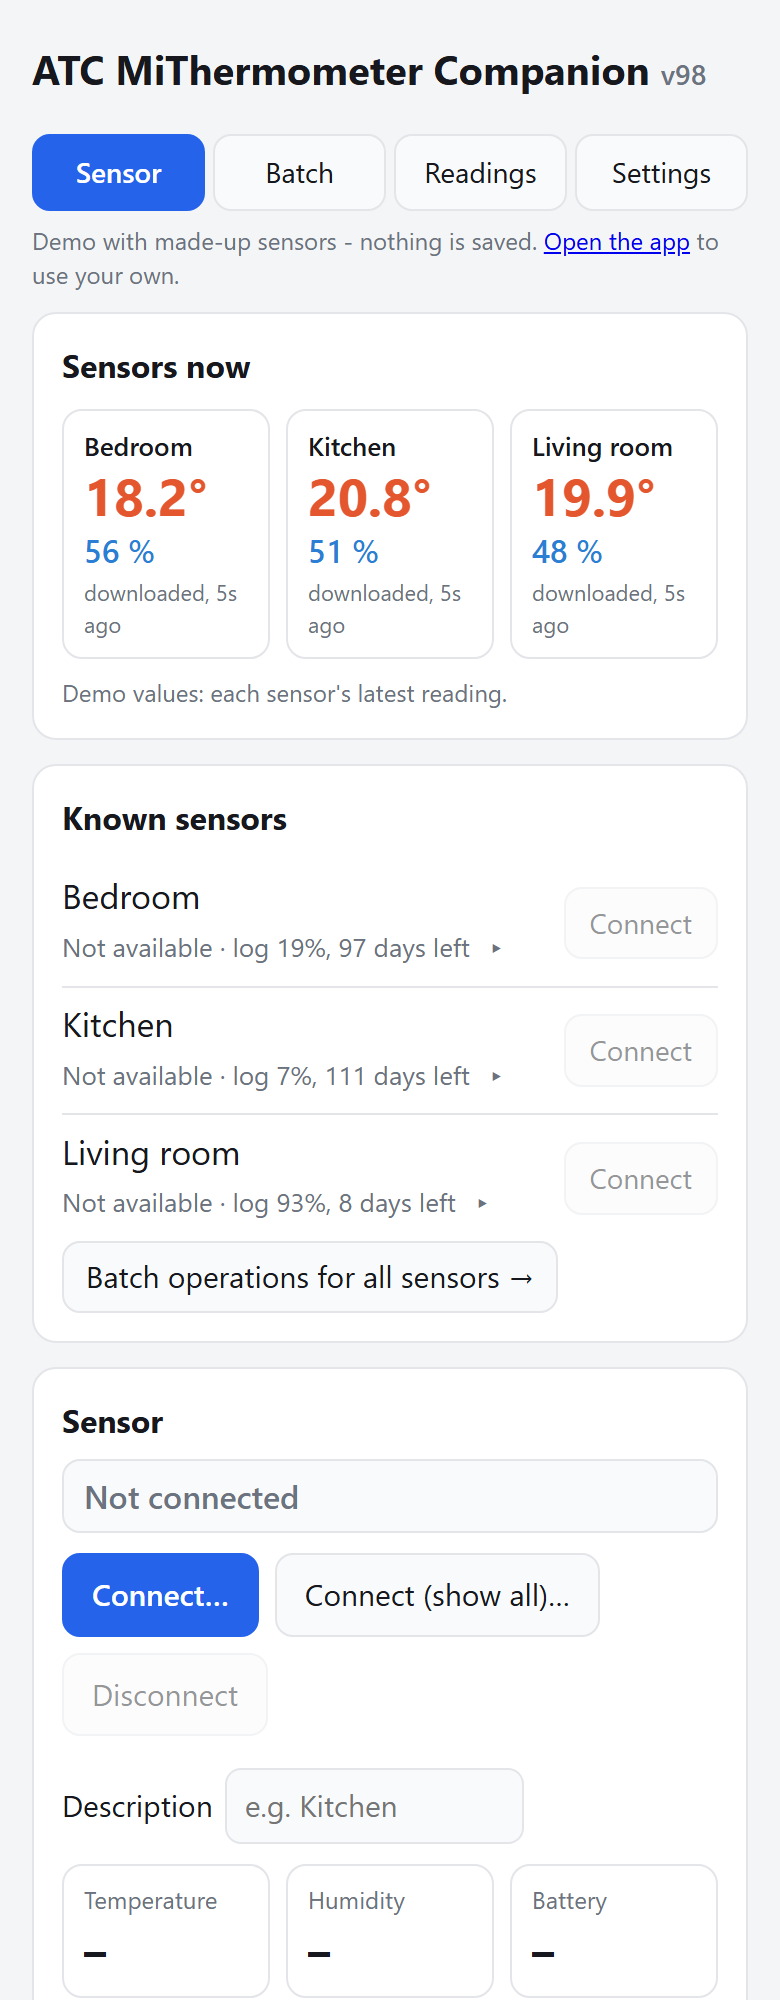
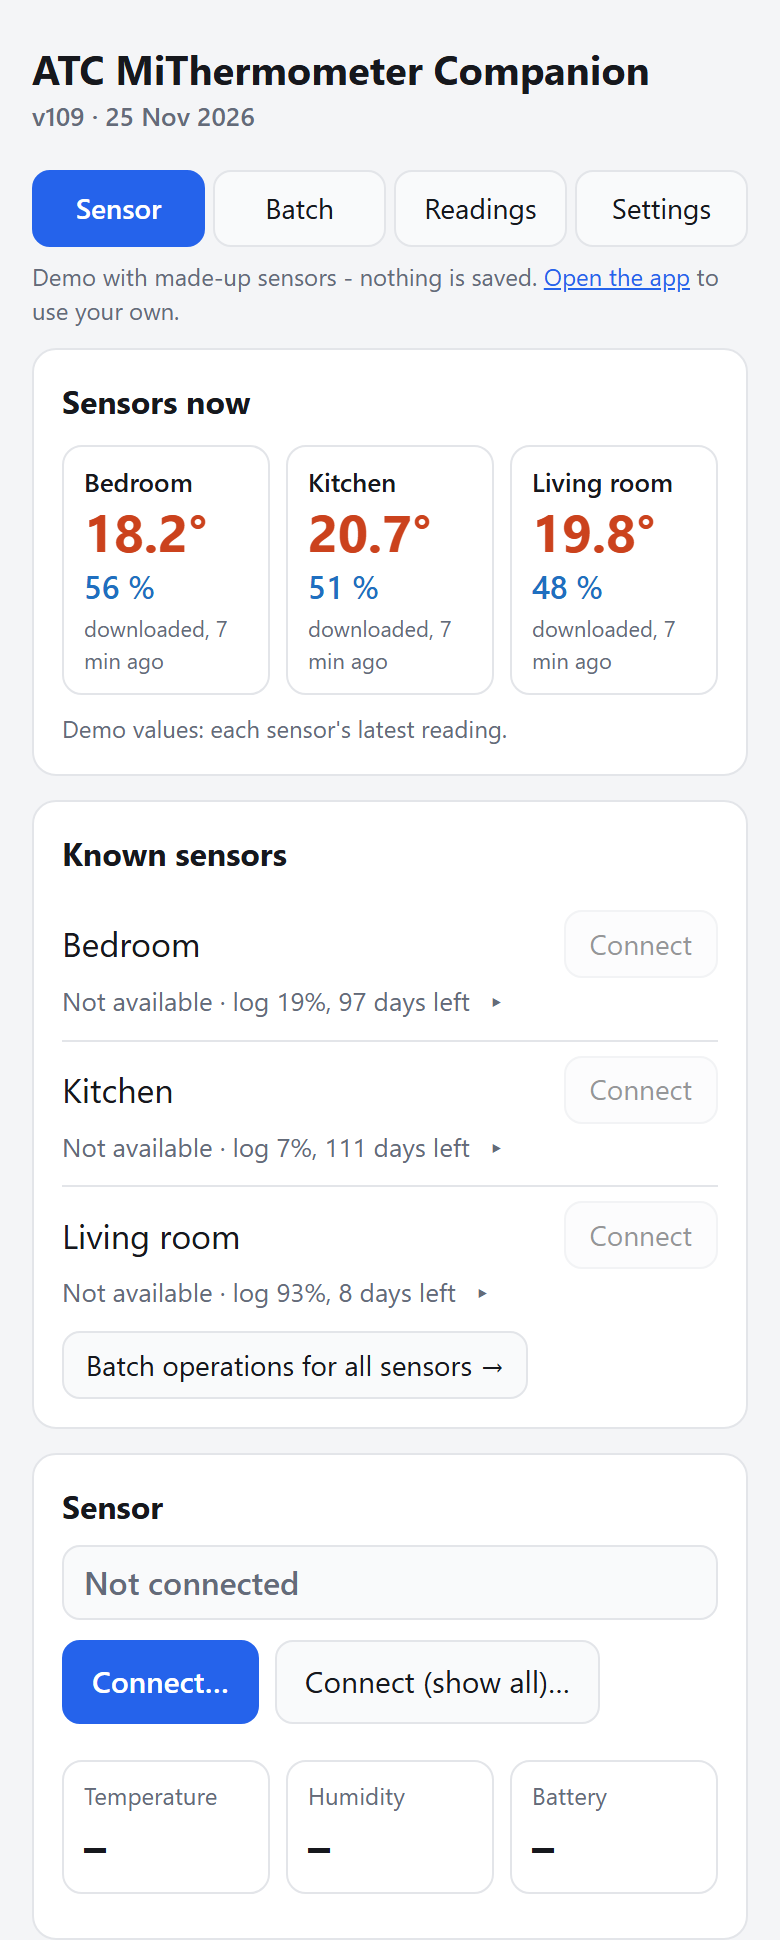
Consistent buttons and tap areas, contrast, one description editor, time zone in Settings, date in title (v109)

diff --git a/index.html b/index.html
@@ -18,8 +18,8 @@
 <meta name="twitter:card" content="summary">
 <style>
 :root {
-  --bg: #f4f5f7; --card: #ffffff; --text: #16181d; --muted: #6b7280; --line: #e3e5e9;
-  --accent: #2563eb; --accent-text: #ffffff; --temp: #e4572e; --hum: #2a7fd4; --batt: #2f8a3e;
+  --bg: #f4f5f7; --card: #ffffff; --text: #16181d; --muted: #646b79; --line: #e3e5e9;
+  --accent: #2563eb; --accent-text: #ffffff; --temp: #cb421d; --hum: #1f6fc0; --batt: #27793a;
   --ok: #15803d; --warn: #b45309; --err: #b91c1c; --input: #f9fafb;
 }
 @media (prefers-color-scheme: dark) {
@@ -44,11 +44,13 @@ h2 { font-size: 16px; margin: 0 0 10px; }
 .row { display: flex; gap: 8px; flex-wrap: wrap; align-items: center; }
 .row + .row { margin-top: 8px; }
 button { font: inherit; border: 1px solid var(--line); background: var(--input); color: var(--text);
-  border-radius: 9px; padding: 9px 14px; cursor: pointer; }
+  border-radius: 9px; padding: 9px 14px; min-height: 42px; cursor: pointer; }
 button.primary { background: var(--accent); color: var(--accent-text); border-color: var(--accent); font-weight: 600; }
 button.danger { color: var(--err); border-color: var(--err); background: transparent; }
 button:disabled { opacity: .45; cursor: default; }
-button.seg { padding: 6px 11px; }
+/* Small buttons (34 px), with a tap area of 44 px */
+button.seg, button.nav, button.lg, button.go { position: relative; min-height: 34px; padding: 0 11px; font-size: 14px; }
+button.seg::after, button.nav::after, button.lg::after, button.go::after { content: ""; position: absolute; inset: -6px 0; }
 button.seg.on { background: var(--accent); color: var(--accent-text); border-color: var(--accent); }
 input, select { font: inherit; color: var(--text); background: var(--input); border: 1px solid var(--line);
   border-radius: 8px; padding: 7px 9px; }
@@ -56,9 +58,12 @@ input[type=number] { width: 90px; }
 input[type=checkbox] { width: 18px; height: 18px; vertical-align: middle; }
 label { display: inline-flex; gap: 6px; align-items: center; }
 /* Label with a menu: the menu moves below its label if both don't fit on one line */
+label:has(> input[type=checkbox]) { position: relative; }
+.row > label:has(> input[type=checkbox])::after, .drift > label::after { content: ""; position: absolute; inset: -4px 0; }
 label.fld { flex-wrap: wrap; max-width: 100%; }
 label.fld select { max-width: 100%; }
-a { color: var(--accent); }
+a { position: relative; color: var(--accent); }
+a::after { content: ""; position: absolute; inset: -12px -6px; }
 .muted { color: var(--muted); font-size: 13px; }
 .status { font-weight: 600; }
 .status.ok { color: var(--ok); } .status.err { color: var(--err); } .status.warn { color: var(--warn); }
@@ -79,7 +84,7 @@ a { color: var(--accent); }
 .legend { display: flex; flex-wrap: wrap; gap: 8px 14px; font-size: 13px; color: var(--muted); }
 /* Legend entries are toggle buttons: tap to hide/show that line. All three stay on one line (iPhone mini). */
 .legend .lgs { display: flex; flex: 0 1 auto; gap: 6px; white-space: nowrap; }
-.legend button.lg { font-size: 13px; padding: 5px 9px; border-radius: 999px; background: transparent; }
+.legend button.lg { font-size: 13px; padding: 0 9px; border-radius: 999px; background: transparent; }
 .legend button.lg::before { content: ""; display: inline-block; width: 9px; height: 3px; margin-right: 5px; vertical-align: middle; background: currentColor; }
 .legend .t { color: var(--temp); border-color: var(--temp); } .legend .h { color: var(--hum); border-color: var(--hum); }
 .legend .b { color: var(--batt); border-color: var(--batt); }
@@ -94,20 +99,20 @@ a { color: var(--accent); }
 .selshow::after { content: ""; flex: none; width: 7px; height: 7px; border: solid var(--muted); border-width: 0 2px 2px 0; transform: translateY(-2px) rotate(45deg); }
 .selwrap:focus-within .selshow { outline: 2px solid var(--accent); outline-offset: 1px; }
 #stepBtns { margin-top: 6px; }
-#stepBtns .nav { padding: 6px 14px; font-size: 14px; }
-#stepBtns #resSel { margin-left: auto; padding: 6px 8px; font-size: 14px; max-width: 100%; }
+#stepBtns .nav { padding: 0 14px; }
+#stepBtns #resSel { margin-left: auto; height: 34px; padding: 0 8px; font-size: 14px; max-width: 100%; }
 .legend .scalesw + .scalesw { margin-left: 8px; }
 .legend .scalesw { margin-left: auto; display: inline-flex; align-items: center; gap: 6px; font-size: 13px; }
-.legend .scalesw .seg { padding: 4px 10px; font-size: 13px; }
+.legend .scalesw .seg { padding: 0 10px; font-size: 13px; }
 .legend .scalesw .seg:first-of-type { border-radius: 9px 0 0 9px; }
-.legend .scalesw .seg:last-of-type { border-radius: 0 9px 9px 0; margin-left: -1px; }
+.legend .scalesw .seg:last-of-type { border-radius: 0 9px 9px 0; margin-left: -7px; }  /* joined: undoes the 6 px gap */
 .legend .scalesw .seg[aria-pressed="true"] { background: var(--accent); color: var(--accent-text); border-color: var(--accent); font-weight: 600; }
 /* The Scale switch and Fit scale stay together */
 .legend .scalegrp { display: inline-flex; align-items: center; gap: 8px; white-space: nowrap; }
 @media (max-width: 480px) { .legend .scalesw { margin-left: 0; } }
-#scFit { padding: 4px 10px; font-size: 13px; }
+#scFit { padding: 0 10px; font-size: 13px; }
 #scFit[aria-pressed="true"] { background: var(--accent); color: var(--accent-text); border-color: var(--accent); font-weight: 600; }
-.legend { flex-wrap: wrap; align-items: center; row-gap: 6px; }
+.legend { flex-wrap: wrap; align-items: center; row-gap: 10px; margin-top: 8px; }
 /* Stats under the chart: a table - rows Latest / Lowest / Highest / Average, a column per measurement. */
 .stats { margin-top: 8px; }
 .stats table { width: 100%; border-collapse: collapse; font-size: 14px; font-variant-numeric: tabular-nums; }
@@ -118,12 +123,16 @@ a { color: var(--accent); }
 .stats .when { display: block; font-size: 11px; color: var(--muted); white-space: nowrap; }
 .cfg-grid { display: grid; grid-template-columns: 1fr auto; gap: 8px 12px; align-items: center; }
 .cfg-grid .info { grid-column: 1 / -1; margin-top: -6px; }
-details summary { cursor: pointer; font-weight: 600; }
+details summary { cursor: pointer; font-weight: 600; padding: 10px 0; margin: -10px 0; }
 #log { font: 12px/1.4 ui-monospace, Menlo, Consolas, monospace; white-space: pre-wrap; max-height: 260px; overflow: auto;
   background: var(--input); border-radius: 8px; padding: 8px; margin-top: 8px; }
 .hidden { display: none !important; }
-button.linkbtn { border: 0; background: none; padding: 0; color: var(--err); font-size: 12px; text-decoration: underline; cursor: pointer; }
+/* Text links: red for removing, .info in the accent colour; the tap area is bigger than the text */
+button.linkbtn.info { color: var(--accent); font-size: 13px; }
+button.linkbtn.info::after { content: ""; position: absolute; inset: -12px -8px; }
+button.linkbtn { position: relative; min-height: 0; border: 0; background: none; padding: 0; color: var(--err); font-size: 12px; text-decoration: underline; cursor: pointer; }
 /* Big line at the top of the Sensor section: which sensor, and whether it's connecting/connected */
+.drift { display: inline-flex; align-items: center; gap: 10px; }
 .devstate { font-size: 16px; font-weight: 700; margin: -2px 0 10px; padding: 6px 10px; border-radius: 9px;
   background: var(--input); border: 1px solid var(--line); overflow-wrap: anywhere; }
 .devstate:not(.ok):not(.warn):not(.err) { color: var(--muted); font-weight: 600; }
@@ -134,7 +143,7 @@ h1.titlebar > span:first-child { white-space: nowrap; }
 h3.sub { font-size: 13px; text-transform: uppercase; letter-spacing: .04em; color: var(--muted); margin: 14px 0 6px; }
 .tabs { position: sticky; top: 0; z-index: 5; display: grid; grid-template-columns: repeat(4, 1fr); gap: 4px;
   background: var(--bg); padding: 6px 0 10px; }
-.tabs button { padding: 8px 4px; font-size: 14px; border-radius: 9px; }
+.tabs button { min-height: 38px; padding: 8px 4px; font-size: 14px; border-radius: 9px; }
 .tabs button.on { background: var(--accent); color: var(--accent-text); border-color: var(--accent); font-weight: 600; }
 body[data-tab] section[data-tab] { display: none; }
 body[data-tab="single"] section[data-tab~="single"], body[data-tab="all"] section[data-tab~="all"],
@@ -151,11 +160,12 @@ body:not([data-tab="all"]) .only-all { display: none !important; }
 /* Batch tab: no per-sensor Connect buttons (batch operations connect by themselves) */
 body[data-tab="all"] #knownList .ks > .go { display: none; }
 /* Compact sensor list: name line, status line, details on tap */
-#knownList .kc { grid-template-columns: minmax(0, 1fr) auto; gap: 0 10px; padding: 5px 0; }
+#knownList .kc { grid-template-columns: minmax(0, 1fr) auto; gap: 0 10px; padding: 8px 0 5px; }
 #knownList .kl { display: contents; }
 #knownList .kc .nm { grid-area: 1 / 1; min-width: 0; }
 #knownList .kc .go { grid-area: 1 / 2; }
-#knownList .kc .sub { grid-area: 2 / 1 / auto / -1; justify-self: start; }  /* full width, so nothing is cut off */
+#knownList .kc .sub { grid-area: 2 / 1 / auto / -1; position: relative; min-height: 0; }  /* full width, so nothing is cut off */
+#knownList .kc .sub::after { content: ""; position: absolute; inset: -2px 0 -6px; }
 #knownList .kc .nm { display: flex; align-items: center; gap: 8px; min-height: 26px; cursor: pointer; }
 #knownList .kc .nm span { white-space: nowrap; overflow: hidden; text-overflow: ellipsis; }
 #knownList .kc .nm input { flex: none; margin: 0; }
@@ -167,7 +177,7 @@ body[data-tab="all"] #knownList .kc .sub { padding-left: 28px; }
 #knownList .kc .sub .lg2.soon { color: var(--warn); font-weight: 600; }
 #knownList .kc .sub .lg2.full { color: var(--err); font-weight: 700; }
 #knownList .kc .chev { flex: none; padding-left: 8px; }
-#knownList .kc .go { padding: 4px 12px; font-size: 14px; }
+#knownList .kc .go { margin: -1px 0; padding: 0 12px; }
 #knownList .kc .more { grid-column: 1 / -1; font-size: 13px; color: var(--muted); padding: 2px 0 6px; line-height: 1.5; overflow-wrap: anywhere; }
 #knownList .kc .more .loglvl { font-size: 13px; font-weight: 400; grid-column: auto; white-space: pre-line; }
 /* Every line is 20 px with 4 px between rows; the Edit link and the text field don't add height. */
@@ -200,7 +210,7 @@ body[data-tab="all"] #knownList .kc .sub { padding-left: 28px; }
 </head>
 <body>
 <main>
-  <h1>ATC MiThermometer Companion <span class="muted" id="appVersionTop" style="font-weight:500;font-size:14px"></span></h1>
+  <h1>ATC MiThermometer Companion <span class="muted" id="appVersionTop" style="display:block;font-weight:500;font-size:13px;line-height:18px"></span></h1>
   <nav class="tabs" id="tabs">
     <button data-go="single">Sensor</button>
     <button data-go="all">Batch</button>
@@ -248,8 +258,8 @@ body[data-tab="all"] #knownList .kc .sub { padding-left: 28px; }
     <div class="only-all">
       <div class="row">
         <button id="btnAddSensors">Add sensors…</button>
-        <button id="btnSelAll" class="seg">Tick all</button>
-        <button id="btnSelNone" class="seg">Untick all</button>
+        <button id="btnSelAll">Tick all</button>
+        <button id="btnSelNone">Untick all</button>
         <span id="readyMsg" class="muted"></span>
       </div>
     </div>
@@ -265,9 +275,6 @@ body[data-tab="all"] #knownList .kc .sub { padding-left: 28px; }
       <button id="btnDisconnect" class="hidden" disabled>Disconnect</button>
     </div>
     <div class="row"><span id="connMsg" class="muted"></span></div>
-    <div class="row">
-      <label>Description <input id="roomName" placeholder="e.g. Kitchen" size="14" disabled></label>
-    </div>
     <div class="live" id="liveTiles">
       <div class="tile"><div class="k">Temperature</div><div class="v" id="liveT">–</div></div>
       <div class="tile"><div class="k">Humidity</div><div class="v" id="liveH">–</div></div>
@@ -291,19 +298,21 @@ body[data-tab="all"] #knownList .kc .sub { padding-left: 28px; }
       </label>
       <label><input type="checkbox" id="optSync" checked> <span id="optSyncLabel">Set clock afterwards (UTC)</span></label>
       <label><input type="checkbox" id="optDelete" checked> Erase on sensor afterwards</label>
-      <label><input type="checkbox" id="driftCorr"> Correct clock drift</label>
+      <span class="drift"><label><input type="checkbox" id="driftCorr"> Correct clock drift</label>
+        <button class="linkbtn info" id="driftWhy" aria-expanded="false" aria-controls="driftHelp">Why?</button></span>
     </div>
-    <div class="row only-single">
+    <p class="muted hidden" id="driftHelp">A sensor's clock can run fast or slow. The clock is read before downloading and, if it's off, the readings since the last clock set are shifted to the right time; the sensor's own times stay in the sensor_timestamp column. <b>Keep “Set clock” and “Erase” ticked</b>: the sensor's log then always starts right after a clock set, so the correction doesn't have to work out when the clock was last set.</p>
+    <p class="muted hidden" id="driftHint">Keep “Set clock” and “Erase” ticked, so the drift correction works well.</p>
+    <div class="row only-single" style="margin-top:8px">
       <button id="btnDump" class="primary" disabled>Download</button>
       <button id="btnDeleteLog" class="danger" disabled>Erase sensor log…</button>
     </div>
-    <div class="row only-all">
+    <div class="row only-all" style="margin-top:8px">
       <button id="bDump" class="primary">Download</button>
       <button id="bShareAll">Share all sensors…</button>
     </div>
     <div class="row"><span id="dumpStatus" class="muted"></span></div>
     <div class="progress" id="dumpProg"><div></div></div>
-    <p class="muted" style="font-size:12px;margin:8px 0 0">Clock drift: a sensor's clock can run fast or slow. The clock is read before downloading and, if it's off, the readings since the last clock set are shifted to the right time; the sensor's own times stay in the sensor_timestamp column. <b>Keep “Set clock” and “Erase” ticked</b>: the sensor's log then always starts right after a clock set, so the correction doesn't have to work out when the clock was last set.</p>
   </section>
 
   <!-- Batch operations -->
@@ -322,7 +331,7 @@ body[data-tab="all"] #knownList .kc .sub { padding-left: 28px; }
     </div>
     <div class="row">
       <button id="bLoadCfg">Load config JSON…</button>
-      <button id="bClearCfg" class="seg hidden">Forget loaded</button>
+      <button id="bClearCfg" class="hidden">Forget loaded</button>
       <button id="bSetCfg">Write config…</button>
       <input type="file" id="fileBatchCfg" accept=".json,application/json" multiple class="hidden">
     </div>
@@ -334,21 +343,14 @@ body[data-tab="all"] #knownList .kc .sub { padding-left: 28px; }
   </section>
 
   <!-- Clock -->
-  <section class="card" data-tab="single all">
+  <section class="card" data-tab="single">
     <h2>Sensor clock</h2>
-    <p class="muted only-all">The time zone here is also used by “Read clocks”, “Set clocks” and by setting the clock after a download.</p>
     <div class="row">
-      <label class="fld">Time zone
-        <select id="timeMode">
-          <option value="utc">UTC (default)</option>
-          <option value="local">Local</option>
-        </select>
-      </label>
-      <button id="btnGetTime" class="only-single" disabled>Read clock</button>
-      <button id="btnTime" class="only-single" disabled>Set clock now</button>
+      <button id="btnGetTime" disabled>Read clock</button>
+      <button id="btnTime" disabled>Set clock now</button>
     </div>
-    <div class="row only-single"><span id="clockMsg" class="muted"></span></div>
-    <p class="muted" id="tzHelp"></p>
+    <div class="row"><span id="clockMsg" class="muted"></span></div>
+    <p class="muted" style="margin:8px 0 0"><span id="tzShort"></span> <button class="linkbtn info" onclick="showTab('settings'); $('timeMode').closest('details').open = true; $('timeMode').scrollIntoView({ block: 'center' })">Change in Settings</button></p>
   </section>
 
   <!-- History -->
@@ -474,6 +476,15 @@ body[data-tab="all"] #knownList .kc .sub { padding-left: 28px; }
       </div>
       <p class="muted" id="backupInfo" style="font-size:12px;margin-top:2px"></p>
       <div class="row">
+        <label class="fld">Time zone of the sensors' clocks
+          <select id="timeMode">
+            <option value="utc">UTC (default)</option>
+            <option value="local">Local</option>
+          </select>
+        </label>
+      </div>
+      <p class="muted" id="tzHelp" style="font-size:12px;margin-top:2px"></p>
+      <div class="row">
         <label class="fld">CSV format
           <select id="csvLocale">
             <option value="en">en: comma, dot decimals</option>
@@ -528,7 +539,7 @@ body[data-tab="all"] #knownList .kc .sub { padding-left: 28px; }
 </main>
 
 <!-- Pure logic (also used by the tests); the ?v= makes phones fetch the new copy with each release. -->
-<script src="core.js?v=108"></script>
+<script src="core.js?v=109"></script>
 <script>
 "use strict";
 const LOCALE = "en-GB";  // dates and numbers match the English texts, whatever the phone's language
@@ -636,7 +647,8 @@ async function mergeInto(dev, newSamples) {
 // ===== Logging =====
 // Detailed debug log: every BLE packet in hex, connection-step timings, browser capabilities, errors
 // with stacks. Kept across page reloads (last LOG_MAX lines) so a crash or iOS reload doesn't lose it.
-const APP_VERSION = 108;  // also bump core.js?v= in the <script> tag above
+const APP_VERSION = 109;  // also bump core.js?v= in the <script> tag above
+const APP_DATE = "2026-11-25";  // release date of this version
 const LOG_MAX = 4000;
 const logLines = lsGet("debugLog", []);
 let logDirty = false;
@@ -1048,7 +1060,6 @@ function setDescription(name, text) {
   for (const o of $("histDev").options) if (o.value) o.textContent = histLabel(o.value);
   showHistDev();
   if (sensorName === name) {
-    $("roomName").value = text;
     if (chr && !connecting) setStatus(`● Connected to ${shownName(name)}`, "ok");
     if ($("btNameNew").dataset.auto) $("btNameNew").value = suggestBtName();
   }
@@ -1368,18 +1379,17 @@ async function connectDeviceNow(dev, expectedName, opts) {
     if (!currentCfg) { step = "reading config"; await request([0x55], b => b[0] === 0x55 && b.length - 1 >= 9, 4000); dbg(`Config ${currentCfg ? "received on second request" : "still not received"}`); }
     step = "identifying the sensor";
     sensorName = (await identifySensor()) || expectedName || device.name || "unknown";
+    if (!opts.batch && !known[sensorName] && !rooms[sensorName]) openKnown.add(sensorName);  // new: its details show where to add a description
     unremoveSensor(sensorName);  // connecting on purpose brings a removed sensor back
     rememberSensor(sensorName, Object.assign({ id: device.id, mac: macFromName(sensorName) || undefined },
       currentCfg ? { cfg: currentCfg, cfgRead: Date.now() } : {}));  // config read before the sensor was identified
     if (!opts.batch) await readBtName();
     reachable.set(sensorName, device);
-    const room = rooms[sensorName];
     // Details under the big status line: the fixed ID (if the shown name differs) and the MAC.
     const shown = shownName(sensorName);
     const bt = (known[sensorName] && known[sensorName].btName) || sensorName;
     showInfo([bt === shown ? "" : `Bluetooth name ${bt}`, bt === sensorName ? "" : `ID ${sensorName}`, macFromName(sensorName) ? `MAC ${macFromName(sensorName)}` : ""].filter(Boolean).join(" · "));
     setStatus(`● Connected to ${shownName(sensorName)}`, "ok"); log(`Connected to ${sensorName} (total ${since(sAll)}).`);
-    $("roomName").value = room || ""; $("roomName").disabled = false;
     setButtons(true); renderKnown();
     // Show the connected sensor's stored history in the (shared) chart.
     if (!opts.batch && histCache.has(histId(sensorName)) && $("histDev").value !== histId(sensorName)) {
@@ -1502,6 +1512,7 @@ function downloadPlan() {
 function updateDownloadButtons() {
   const label = downloadLabel(downloadPlan());
   $("btnDump").textContent = label; $("bDump").textContent = label;
+  $("driftHint").classList.toggle("hidden", prefs.driftCorr === false || ($("optSync").checked && $("optDelete").checked));
 }
 // Returns { n, total, finished, deleted } (or null if cancelled). opts.skipConfirm: batch already asked.
 async function dump(opts = {}) {
@@ -1881,9 +1892,10 @@ const modeLabel = m => m === "utc" ? "UTC" : `${tzName()} (UTC${fmtOffset(localO
 function updateTzLabels() {
   $("timeMode").options[1].textContent = `Local - ${modeLabel("local")}`;
   $("optSyncLabel").textContent = `Set clock afterwards (${prefs.timeMode === "utc" ? "UTC" : modeLabel("local")})`;
-  $("tzHelp").textContent = prefs.timeMode === "utc"
-    ? "Read clock, Set clock and “Set clock afterwards” all use UTC. Charts still show your local time."
-    : `Read clock, Set clock and “Set clock afterwards” use the phone's local time, ${modeLabel("local")}. It shifts at daylight-saving changes, so set the clocks again then.`;
+  $("tzShort").textContent = `Set to ${modeLabel(prefs.timeMode)}.`;
+  $("tzHelp").textContent = "Used for reading and setting the clocks, also after a download. " + (prefs.timeMode === "utc"
+    ? "Charts always show your local time."
+    : "Local time shifts at daylight-saving changes, so set the clocks again then.");
 }
 async function setTime() {
   // Read the clock first, so this set is recorded with the error it corrected (used by drift correction).
@@ -2869,7 +2881,7 @@ function updateStatusBar() {
   document.querySelectorAll("#tabs button").forEach(b => b.onclick = () => showTab(b.dataset.go));
   showTab(lsGet("tab", "single"));
   setInterval(updateStatusBar, 1000);
-  $("appVersionTop").textContent = `v${APP_VERSION}`;
+  $("appVersionTop").textContent = `v${APP_VERSION} · ${new Date(APP_DATE + "T12:00").toLocaleDateString(LOCALE, { day: "numeric", month: "short", year: "numeric" })}`;
   logEnvironment(); flushLog();
   $("btnLogSend").onclick = sendLog;
   $("btnLogCopy").onclick = copyLog;
@@ -2900,7 +2912,8 @@ function updateStatusBar() {
   $("showNow").checked = !!prefs.showNow;   // off by default
   $("showNow").onchange = e => { prefs.showNow = e.target.checked; savePrefs(); if (prefs.showNow) startLive(); else stopLive(); renderKnown(); };
   $("driftCorr").checked = prefs.driftCorr !== false;
-  $("driftCorr").onchange = e => { prefs.driftCorr = e.target.checked; savePrefs(); };
+  $("driftCorr").onchange = e => { prefs.driftCorr = e.target.checked; savePrefs(); updateDownloadButtons(); };
+  $("driftWhy").onclick = () => { const open = !$("driftHelp").classList.toggle("hidden"); $("driftWhy").setAttribute("aria-expanded", String(open)); $("driftWhy").textContent = open ? "Hide" : "Why?"; };
   document.querySelectorAll("#rangeBtns .seg").forEach(b => {
     b.classList.toggle("on", +b.dataset.h === prefs.range);
     b.onclick = () => { prefs.range = +b.dataset.h; savePrefs(); view = null; drawChart(); updateZoomUi(); };
@@ -2927,7 +2940,6 @@ function updateStatusBar() {
     catch (err) { log("Invalid config JSON: " + err.message); }
     e.target.value = "";
   };
-  $("roomName").onchange = e => { if (sensorName) setDescription(sensorName, e.target.value); };
   $("btnAddSensors").onclick = () => withBusy(addSensor);
   if (navigator.bluetooth && typeof navigator.bluetooth.requestLEScan === "function") {
     $("scanRow").classList.remove("hidden");
